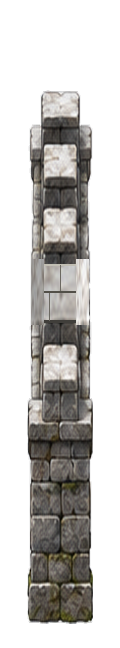
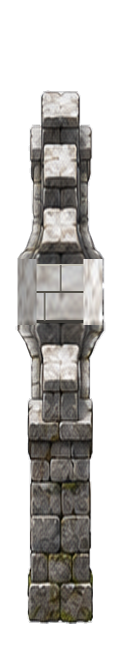
fix(walls): widen mirrored edge-on gates and persistently clear overlapping nature

Changed region(s): [[0.125, 0.3395, 0.425, 0.5556], [0.625, 0.3395, 0.875, 0.5556], [0.5, 0.4012, 0.525, 0.463]]

diff --git a/index.html b/index.html
@@ -408,11 +408,11 @@ Ihre Form wird ausschließlich im Bergwerkzeug eingestellt. Ihre Deckkraft folgt
 window.VedrasCloudsDisabled=new URLSearchParams(location.search).get('clouds')!=='1';</script>
 <script src="asset-image-pool.js?v=0.3.1&amp;step11=20261028"></script><script src="render-quality-policy.js?v=0.1.0&amp;terrain=quality-source-20261117"></script><script src="gpu-terrain.js?v=0.2.0&amp;uvHighp=20261122"></script><script src="strategic-view.js?v=0.1.0"></script><script src="static-terrain-cache.js?v=0.1.0"></script><script src="render-benchmark-profiler.js?v=0.1.0"></script>
 <script src="render-step15-trace.js?v=0.1.0"></script>
-<script src="sprite-atlas-runtime.js?v=0.3.0"></script><script src="worldgen-geography.js?v=2.1.2"></script><script src="geography-io.js?v=20261120-io-v1"></script><script src="catalog.js?v=0.18.0"></script><script src="terrain-source-rules.js?v=0.18.0"></script><script src="water-texture.js?v=20261119-forest-seamless-v2"></script><script src="autotile.js?v=20261119-ground-wrap-v1"></script><script src="chunks.js?v=0.37.1&amp;step16b=20261101-offscreen1"></script><script src="terrain-worker-client.js?v=20261119-ground-wrap-v1"></script><script src="nature_catalog.js?v=20261121-desert-trees-v1"></script><script src="flora-plan.js?v=0.17.0"></script><script src="terrain-plan.js?v=0.18.0"></script><script src="sprite-planner.js?v=0.16.0"></script><script src="existing-asset-rules.js?v=20261121-desert-trees-v1"></script><script src="forest.js?v=20261122-canopy-variation-v1"></script><script src="forest-ground.js?v=20261120-organic-v1&amp;softSnow=20261122"></script><script src="nature-balance.js?v=0.36.1"></script><script src="polish.js?v=0.21.0"></script><script src="relief.js?v=0.35.0"></script><script src="shoreline.js?v=0.30.1&amp;artfix=20261027"></script><script src="river.js?v=0.30.0"></script><script src="river-banks.js?v=0.2.0"></script><script src="mountain.js?v=0.11.0"></script><script src="roads.js?v=0.31.0"></script><script src="walls.js?v=20261124-stone-gates-all-v2"></script><script src="bridges.js?v=0.28.0"></script><script src="shadow-tone.js?v=20261122-shadow-union-v1"></script><script src="shadow-system.js?v=20261122-gray-all-v1"></script><script src="shadow-shapes.js?v=20261122-gray-all-v1"></script><script src="sprite-shadow-editor.js?v=20261122-shadow-union-v1"></script><script src="shadow-painter-ui.js?v=0.1.0"></script><script src="object-layout-cache.js?v=0.2.0"></script><script src="static-object-layer.js?v=0.2.0"></script><script src="gpu-sprite-layer.js?v=0.1.0"></script><script src="frame-preparation-cache.js?v=0.1.0"></script><script src="adaptive-lod.js?v=0.1.1&amp;step10=20261027"></script><script src="realtime-map-renderer.js?v=0.1.1"></script><script src="cloud-artwork.js?v=0.22.4&amp;step12=20261028"></script><script src="fog-atmosphere.js?v=0.22.4"></script><script src="quick-terrain-preview.js?v=20261101-1"></script>
+<script src="sprite-atlas-runtime.js?v=0.3.0"></script><script src="worldgen-geography.js?v=2.1.2"></script><script src="geography-io.js?v=20261120-io-v1"></script><script src="catalog.js?v=0.18.0"></script><script src="terrain-source-rules.js?v=0.18.0"></script><script src="water-texture.js?v=20261119-forest-seamless-v2"></script><script src="autotile.js?v=20261119-ground-wrap-v1"></script><script src="chunks.js?v=0.37.1&amp;step16b=20261101-offscreen1"></script><script src="terrain-worker-client.js?v=20261119-ground-wrap-v1"></script><script src="nature_catalog.js?v=20261121-desert-trees-v1"></script><script src="flora-plan.js?v=0.17.0"></script><script src="terrain-plan.js?v=0.18.0"></script><script src="sprite-planner.js?v=0.16.0"></script><script src="existing-asset-rules.js?v=20261121-desert-trees-v1"></script><script src="forest.js?v=20261122-canopy-variation-v1"></script><script src="forest-ground.js?v=20261120-organic-v1&amp;softSnow=20261122"></script><script src="nature-balance.js?v=0.36.1"></script><script src="polish.js?v=0.21.0"></script><script src="relief.js?v=0.35.0"></script><script src="shoreline.js?v=0.30.1&amp;artfix=20261027"></script><script src="river.js?v=0.30.0"></script><script src="river-banks.js?v=0.2.0"></script><script src="mountain.js?v=0.11.0"></script><script src="roads.js?v=0.31.0"></script><script src="walls.js?v=20261124-stone-gates-wide-v3"></script><script src="bridges.js?v=0.28.0"></script><script src="shadow-tone.js?v=20261122-shadow-union-v1"></script><script src="shadow-system.js?v=20261122-gray-all-v1"></script><script src="shadow-shapes.js?v=20261122-gray-all-v1"></script><script src="sprite-shadow-editor.js?v=20261122-shadow-union-v1"></script><script src="shadow-painter-ui.js?v=0.1.0"></script><script src="object-layout-cache.js?v=0.2.0"></script><script src="static-object-layer.js?v=0.2.0"></script><script src="gpu-sprite-layer.js?v=0.1.0"></script><script src="frame-preparation-cache.js?v=0.1.0"></script><script src="adaptive-lod.js?v=0.1.1&amp;step10=20261027"></script><script src="realtime-map-renderer.js?v=0.1.1"></script><script src="cloud-artwork.js?v=0.22.4&amp;step12=20261028"></script><script src="fog-atmosphere.js?v=0.22.4"></script><script src="quick-terrain-preview.js?v=20261101-1"></script>
 <script src="frozen-map-package.js?v=20261101-2"></script>
 <script src="authored-world-contract.js?v=20261118-semantic-world-v1"></script>
 <script src="frozen-map-runtime.js?v=20261118-near-archive-audit-v4&amp;edgePolicy=20261119&amp;linkedAudit=20261122&amp;coreScene=20261122"></script>
 <script src="frozen-ground-core-seams.js?v=20261120-owned-core-gate-v1&amp;hexTip=20261122"></script>
 <script src="world-tile-streamer.js?v=0.22.6&amp;fix=exact-lod-20261117&amp;clouds=off-20261120&amp;coreFilter=20261122"></script>
-<script src="world-tile-ground-reuse.js?v=0.1.0"></script><script src="app.js?v=20261120-organic-v1&amp;diagnostics=20261121&amp;shadows=partial-20261121&amp;edgeCore=20261122&amp;localPreview=20261122&amp;softSnow=20261122&amp;grayAll=20261122&amp;shadowUnion=20261122&amp;footGate=20261122&amp;walls=20261124-stone-gates-all-v2&amp;coreScene=20261122&amp;geography=2.1.2&amp;geographyIO=20261120&amp;clouds=off-20261120"></script><script src="nature-ui.js?v=20261122-open-trees-v1&amp;alpineShrubs=20261122"></script><script src="road-ui.js?v=0.28.0"></script><script src="wall-ui.js?v=20261124-stone-gates-all-v2"></script><script src="ui-organizer.js?v=20261122-shadow-gray-shortcut-v1"></script><script src="forest-ui.js?v=20261122-canopy-variation-v1"></script><script src="river-ui.js?v=0.15.0"></script><script src="flora-workspace.js?v=0.13.0"></script>
+<script src="world-tile-ground-reuse.js?v=0.1.0"></script><script src="app.js?v=20261120-organic-v1&amp;diagnostics=20261121&amp;shadows=partial-20261121&amp;edgeCore=20261122&amp;localPreview=20261122&amp;softSnow=20261122&amp;grayAll=20261122&amp;shadowUnion=20261122&amp;footGate=20261122&amp;walls=20261124-stone-gates-wide-v3&amp;coreScene=20261122&amp;geography=2.1.2&amp;geographyIO=20261120&amp;clouds=off-20261120"></script><script src="nature-ui.js?v=20261122-open-trees-v1&amp;alpineShrubs=20261122&amp;wallClear=20261124"></script><script src="road-ui.js?v=0.28.0"></script><script src="wall-ui.js?v=20261124-stone-gates-wide-v3"></script><script src="ui-organizer.js?v=20261122-shadow-gray-shortcut-v1"></script><script src="forest-ui.js?v=20261122-canopy-variation-v1"></script><script src="river-ui.js?v=0.15.0"></script><script src="flora-workspace.js?v=0.13.0"></script>
 </body></html>

diff --git a/app.js b/app.js
@@ -2385,12 +2385,53 @@ function wallEnvironment(){
 function visibleWallEdges(){
  return window.VedrasWalls.normalize(state.wallEdges,wallEnvironment());
 }
+// Compare both the authored root and the rendered (relief-adjusted) foot
+// against the same flat-grid construction. The latter matters when a plant
+// on a raised hex is painted over a wall even though its root is farther away.
+function wallNatureBlocked(x,y,width,kind,edges=state.wallEdges){
+ if(!edges?.length)return false;
+ const W=window.VedrasWalls;
+ return W.blocksNature(x,y,edges,width,kind)||
+  W.blocksNature(x,displayGroundY(x,y),edges,width,kind);
+}
+function wallNatureWidth(asset,meta,scale=1){
+ const crop=asset?.img?.naturalWidth?visibleBounds(asset.img):null;
+ const base=crop?(window.VedrasSpritePlanner?.visualWidth(meta,asset.img,crop)??meta?.logicalWidth??52):
+  (meta?.logicalWidth||52);
+ return base*(Number(scale)||1)*(window.VedrasNatureBalance?.sizeFactor(meta)??1);
+}
+// Clear saved Nature, including older hexObject assignments. The asset
+// catalog and original PNGs are never touched. Demo flora is filtered at draw.
+function clearWallNature(edges=visibleWallEdges()){
+ if(!edges.length)return 0;
+ let removed=0;
+ state.natureInstances=(state.natureInstances||[]).filter(n=>{
+  const a=assetByPath.get(n.assetPath),meta=window.VedrasNature?.entryFor(a);
+  const p=axialPos(n.q,n.r);
+  const blocked=wallNatureBlocked(p.x+(n.dx||0),p.y+(n.dy||0),
+   wallNatureWidth(a,meta,n.scale),meta?.kind,edges);
+  if(blocked)removed++;
+  return !blocked;
+ });
+ for(const [k,record] of Object.entries(state.hexObject||{})){
+  const a=assetByPath.get(record?.path);
+  if(a?.category!=='nature')continue;
+  const meta=window.VedrasNature?.entryFor(a),[q,r]=k.split(',').map(Number),p=axialPos(q,r);
+  const width=(record.width??80)*(window.VedrasNatureBalance?.sizeFactor(meta)??.85);
+  if(wallNatureBlocked(p.x,p.y+52,width,meta?.kind,edges)){
+   delete state.hexObject[k];delete state.hexShadow[k];removed++;
+  }
+ }
+ return removed;
+}
 function applyWallChanges(next){
  state.wallEdges=window.VedrasWalls.normalize(next,wallEnvironment());
- // Wall drawings live in the independent scenery layer, not the ground PNG.
+ const removed=clearWallNature(state.wallEdges);
+ if(removed)window.VedrasNature?.renderPlaced?.();
+ // Wall drawings and cleared plants share the independent scenery layer.
  persistScene(true);requestDraw();
  window.dispatchEvent(new Event('vedras:wall-changed'));
- return {walls:state.wallEdges.length};
+ return {walls:state.wallEdges.length,removed};
 }
 // Mountain shadows are procedural ground shapes. The PNG only determines
 // the LEFT-FOOT contact point; it is no longer sheared into a hidden spike.
@@ -2622,7 +2663,7 @@ function genericObjects(view=null){
  const roads=visibleRoadEdges(),walls=visibleWallEdges();
  return objs.filter(o=>{
   // Clear plants intersecting walls, gates or piers; preserve saved placement.
-  if(o.type==='nature'&&window.VedrasWalls.blocksNature(o.x,o.y,walls,o.w,o.natureMeta?.kind))
+  if(o.type==='nature'&&wallNatureBlocked(o.x,o.y,o.w,o.natureMeta?.kind,walls))
    return false;
   if(o.type!=='mountain'&&window.VedrasRoads.blocksPoint(o.x,o.y,roads,
    o.type==='building'?Math.min(72,(o.w||160)*.38):7,HEX))return false;
@@ -4376,6 +4417,8 @@ function frozenSceneKey({force4x=false}={}){
   'stone-native-pier-unified-open-and-closed-v1',
   'stone-gates-south-closed-v1',
   'stone-gates-all-facings-and-nature-footprint-v2',
+  'stone-gates-wide-mirrored-edge-on-v3',
+  'wall-nature-persistent-clearance-v1',
   'forest-floor-wrap-v1',
   'organic-forest-fringes-and-soft-snow-v4',
   // Strict source-core alpha stabilization and read-only seam publication
@@ -6117,6 +6160,6 @@ window.VedrasAssetLabor={frozenMapTest:()=>({
   effectiveDpr:state.dpr,backingWidth:canvas.width,
   backingHeight:canvas.height,images:imagePool.report(),
   scenery:staticScenery.stats(),background:backgroundScene.stats()}),
- roads:{apply:applyRoadChanges,blocked:roadBlockedCell,blockedHexes:roadBlockedHexes},walls:{environment:wallEnvironment,visible:visibleWallEdges,apply:applyWallChanges,project:wallGridProject},terrainReady:()=>catalogCanSave,state,catalog:()=>catalog,assets:()=>assets,cells:()=>worldCells,
+ roads:{apply:applyRoadChanges,blocked:roadBlockedCell,blockedHexes:roadBlockedHexes},walls:{environment:wallEnvironment,visible:visibleWallEdges,apply:applyWallChanges,project:wallGridProject,blocksNature:wallNatureBlocked,natureWidth:wallNatureWidth,clearNature:clearWallNature},terrainReady:()=>catalogCanSave,state,catalog:()=>catalog,assets:()=>assets,cells:()=>worldCells,
  invalidateScenery:()=>{invalidateSpriteLayout(null,{preserveCamera:true});requestDraw();},
  persistScene,requestDraw,onSelect:null,inspectTerrain,isTerrainValid,effectiveBiome,baseBiomeOf,typeOfAsset,geometry:{HEX,R,PROJECT_Y,MAX_BUILD},forestCells,riverRoutes,invalidateTerrain,mountains:{validMountains,reservedMountainHexes},relief:{height:reliefHeight,displayY:displayGroundY},autotile:()=>window.__vedrasLastAutotile,toScreen,pixelToHex,assignBiomes,reloadFromServer};

diff --git a/nature-ui.js b/nature-ui.js
@@ -166,6 +166,10 @@ window.VedrasNature=(()=>{
   return window.VedrasRoads.blocksPoint(pos.x+dx,pos.y+dy,
    state.roadEdges||[],8,256);
  }
+ function blocksWall(q,r,dx,dy,meta,asset,scale=1){
+  const p=pts(q,r);
+  return core.walls.blocksNature(p.x+dx,p.y+dy,core.walls.natureWidth(asset,meta,scale),meta?.kind);
+ }
  function blocksRiver(q,r,dx,dy,meta){
   const pos=pts(q,r),x=pos.x+dx,y=pos.y+dy;
   const width=Number(state.riverWidth)||32;
@@ -205,7 +209,7 @@ window.VedrasNature=(()=>{
   if((state.mountainInstances||[]).some(m=>window.VedrasMountains.occupied(m).includes(k)))return false;
   if(k==='0,0'&&core.assets().some(v=>v.category==='buildings'&&v.name.startsWith('mine_lvl01__main')))return false;
   if(conflictsWithBuilding(inst.q,inst.r,inst.dx,inst.dy,meta))return false;
-  return eligible(meta,inst.q,inst.r,forestByHex)&&!blocksRiver(inst.q,inst.r,inst.dx,inst.dy,meta)&&!blocksRoad(inst.q,inst.r,inst.dx,inst.dy);
+  return eligible(meta,inst.q,inst.r,forestByHex)&&!blocksRiver(inst.q,inst.r,inst.dx,inst.dy,meta)&&!blocksRoad(inst.q,inst.r,inst.dx,inst.dy)&&!blocksWall(inst.q,inst.r,inst.dx,inst.dy,meta,a,inst.scale);
  }
  function cleanup(){
   if(!Object.keys(catalog.entries||{}).length)return 0;
@@ -214,6 +218,7 @@ window.VedrasNature=(()=>{
   // Unavailable assets stay in storage for recovery and are not shown meanwhile.
   state.natureInstances=(state.natureInstances||[]).filter(inst=>validInstance(inst,forestByHex)!==false);
   let dropped=before-state.natureInstances.length;
+  dropped+=core.walls.clearNature();
   // Older scenes can also contain legacy hexObject Nature assignments.
   for(const [hex,record] of Object.entries(state.hexObject||{})){
    const a=core.assets().find(v=>v.path===record?.path);
@@ -249,7 +254,7 @@ window.VedrasNature=(()=>{
    // Retain a few edge trees and never plant their trunks in the opening.
    if(meta.kind==='tree'&&window.VedrasForest.inGlade(forestByHex?.get(cellKey),dx,dy))continue;
    const x=p.x+dx,y=p.y+dy;
-   if(blocksRiver(q,r,dx,dy,meta)||blocksRoad(q,r,dx,dy))continue;
+   if(blocksRiver(q,r,dx,dy,meta)||blocksRoad(q,r,dx,dy)||blocksWall(q,r,dx,dy,meta,a,scale))continue;
    if(conflictsWithBuilding(q,r,dx,dy,meta))continue;
    if((q===0&&r===0)&&Math.hypot(dx,dy-52)<65)continue; // reserve mine demo footprint
    if(near.some(i=>{const v=pts(i.q,i.r);const other=catalog.entries[i.assetPath.replace(/^assets\//,'')];const areaScale=Math.sqrt(window.VedrasNatureBalance.placementScale(meta)*window.VedrasNatureBalance.placementScale(other));

diff --git a/walls.js b/walls.js
@@ -128,20 +128,22 @@ window.VedrasWalls=(()=>{
  // direction of the shared hex edge. NW and NE therefore use identical
  // sprite height, including the eight-unit sharpened palisade tip.
  // Clear the visible ground footprint, not just the mathematical root point.
- // Also account for the wider shared pier at each end. The saved nature
- // instance is not deleted, so it returns when the construction is removed.
+ // Also account for the wider shared pier at each end. This predicate
+ // is shared by rendering, persistent clearance and Nature placement.
  function blocksNature(x,y,edges,visualWidth=32,plantKind=''){
   if(!Number.isFinite(x)||!Number.isFinite(y))return false;
   const w=Math.max(0,Number(visualWidth)||32);
-  const radius=Math.max(8,Math.min(48,w*(plantKind==='tree'?.18:.42)));
+  const radius=Math.max(12,Math.min(90,w*.5));
   for(const edge of edges||[]){
    const g=geometry(edge);if(!g)continue;
    const material=materialOf(edge.kind);
-   const half=material==='stone'?12:8;
+   const half=edge.kind==='stone_gate'?16:material==='stone'?12:8;
    const pier=material==='stone'?23:12.5;
-   if(blocksPoint(x,y,[edge],half+radius+6)||
-      Math.hypot(x-g.a.x,y-g.a.y)<=pier+radius+6||
-      Math.hypot(x-g.b.x,y-g.b.y)<=pier+radius+6)return true;
+   const dx=g.b.x-g.a.x,dy=g.b.y-g.a.y,len=dx*dx+dy*dy;
+   const t=len>0?Math.max(0,Math.min(1,((x-g.a.x)*dx+(y-g.a.y)*dy)/len)):0;
+   if(Math.hypot(x-g.a.x-t*dx,y-g.a.y-t*dy)<=half+radius+10||
+      Math.hypot(x-g.a.x,y-g.a.y)<=pier+radius+10||
+      Math.hypot(x-g.b.x,y-g.b.y)<=pier+radius+10)return true;
   }
   return false;
  }
@@ -320,7 +322,7 @@ window.VedrasWalls=(()=>{
    const image=new Image();gateArt.set(side,image);
    pending.push(new Promise(resolve=>{
     image.onload=()=>resolve(true);image.onerror=()=>resolve(false);
-    image.src='assets/walls/stone/gates/v1/gate_dir'+side+'.png?v=20261124-gates-all-stone-v2';
+    image.src='assets/walls/stone/gates/v1/gate_dir'+side+'.png?v=20261124-gates-wide-center-v3';
    }));
   }
   for(const name of ['corner_post','end_post']){

diff --git a/assets/walls/stone/gates/v1/README.md b/assets/walls/stone/gates/v1/README.md
@@ -1,3 +1,9 @@
 # Stone gates v1 — all six facings
 
 Closed stone gate sprites for NO (0), O (1), SO (2), SW (3), W (4). NW (5) reuses the SO image without mirroring, but uses the direction-5 anchor. All six facings use the matching stone-wall footprint and common stone piers/shadows. Diagonals are 468 × 501 RGBA; edge-on gates are 120 × 648 RGBA and preserve the original wall alpha silhouette, with a modified upper gate lintel/parapet only. NO is an independently painted variant with right-hand illumination. No runtime rotation or distortion. The editor supports all six facings; palisade gates are not yet implemented. Nature collision clearance uses the footprint of the plant plus construction width and pier area, non-destructively.
+
+### Edge-on gates (v3)
+East and west use a horizontally mirrored sprite with a wider center gatehouse (~86 source pixels instead of ~59); canvas dimensions and endpoints remain unchanged. The common global cast-shadow direction remains independent of facing.
+
+### Nature clearance
+Constructing walls/gates now removes overlapping saved nature instances and legacy nature assignments, and prevents automatic/manual replanting on the occupied corridor. The asset library itself remains unchanged. Render-time clearance also handles legacy demo flora and relief-adjusted foot positions.
